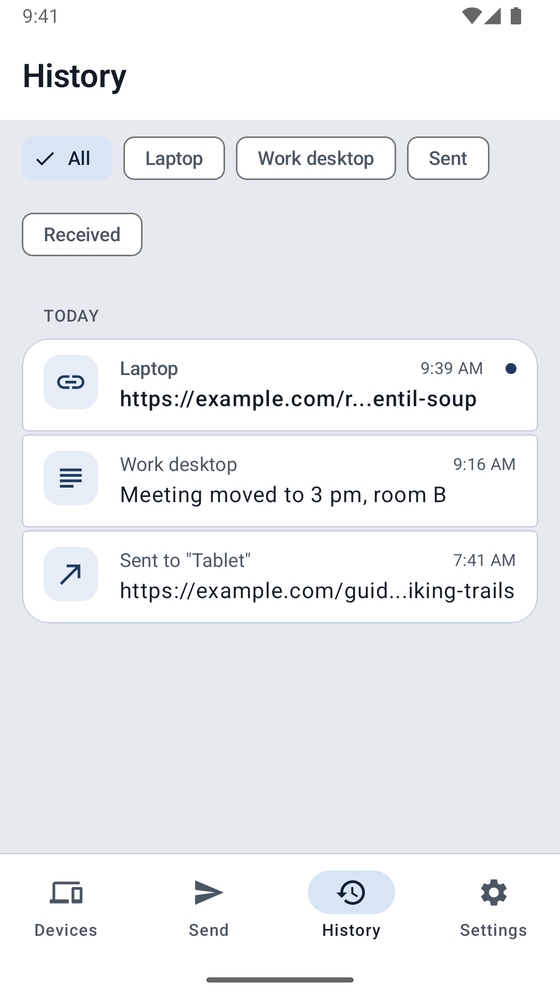
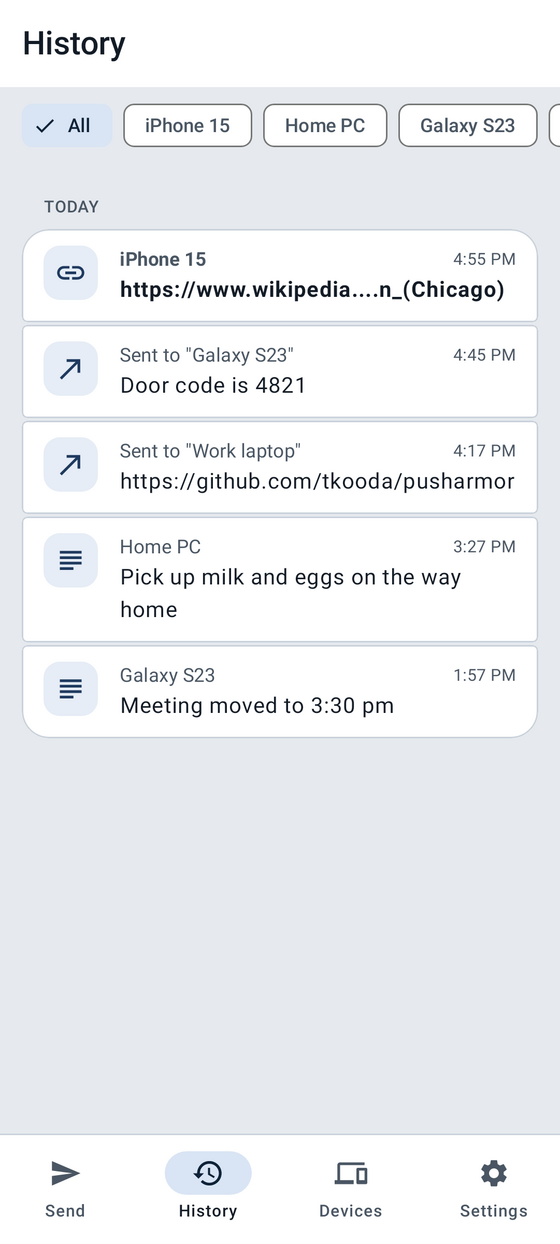
site: /about shows 7 journey screenshots per platform, light only, one screen each (I613)
Every /about image is replaced. Each platform shows: pair a device,
check the pairing fingerprint, the device list, send, history, an
opened message, and settings, with the same sample devices and
messages. Phone shots are one screen with the tab bar; browser shots
are the popup only.

Captured from:
  Android  57f60c2b386612d49f621698bff41bb12df24389
  iPhone   91cea859238439be40ee1ef2e094fa000f8d5b4f
  Chrome   5e95df12815e1adf7f38b211c568b2d53a60864b
  Firefox  5e95df12815e1adf7f38b211c568b2d53a60864b

diff --git a/site/public/about.html b/site/public/about.html
@@ -50,51 +50,52 @@ can open them. The security page shows who sees what.</p>
 <section class="shot-panel" id="shots-android" aria-labelledby="tab-android">
 <h3 class="panel-title">Android</h3>
 <div class="shot-row shot-android">
-<figure class="shot"><a class="shot-link" href="/img/about/android/06-first-pair-waiting.png"><img src="/img/about/android/06-first-pair-waiting.png" width="280" height="607" alt="Android Pair your first device screen with a device waiting to pair and Pair and Deny buttons."></a><figcaption>Waiting for a device to pair</figcaption></figure>
-<figure class="shot"><a class="shot-link" href="/img/about/android/04-pairing.png"><img src="/img/about/android/04-pairing.png" width="280" height="498" alt="Android pairing request showing the pairing fingerprint K7QD, with Deny and Approve buttons."></a><figcaption>Pair with a fingerprint</figcaption></figure>
-<figure class="shot"><a class="shot-link" href="/img/about/android/08-devices.png"><img src="/img/about/android/08-devices.png" width="280" height="498" alt="Android Devices screen listing the paired devices Laptop, Work desktop, and Tablet."></a><figcaption>Manage your devices</figcaption></figure>
-<figure class="shot"><a class="shot-link" href="/img/about/android/03-send.png"><img src="/img/about/android/03-send.png" width="280" height="498" alt="Android Send screen with a link typed in and three devices selected."></a><figcaption>Send to your devices</figcaption></figure>
-<figure class="shot"><a class="shot-link" href="/img/about/android/09-send-error.png"><img src="/img/about/android/09-send-error.png" width="280" height="498" alt="Android Send screen with a message that the send failed."></a><figcaption>Know when a send fails</figcaption></figure>
-<figure class="shot"><a class="shot-link" href="/img/about/android/05-history.png"><img src="/img/about/android/05-history.png" width="280" height="498" alt="Android History screen listing links and text from your other devices."></a><figcaption>See your history</figcaption></figure>
-<figure class="shot"><a class="shot-link" href="/img/about/android/10-history-open.png"><img src="/img/about/android/10-history-open.png" width="280" height="498" alt="Android History screen with one message opened, showing its actions."></a><figcaption>Open a message for more actions</figcaption></figure>
-<figure class="shot"><a class="shot-link" href="/img/about/android/07-settings.png"><img src="/img/about/android/07-settings.png" width="280" height="607" alt="Android Pair your first device screen with the Settings gear at the top right."></a><figcaption>Open Settings</figcaption></figure>
+<figure class="shot"><a class="shot-link" href="/img/about/android/01-pair-waiting.png"><img src="/img/about/android/01-pair-waiting.png" width="280" height="622" alt="Android Pair your first device screen with Galaxy S23 waiting to pair."></a><figcaption>Waiting for a device to pair</figcaption></figure>
+<figure class="shot"><a class="shot-link" href="/img/about/android/02-pair-fingerprint.png"><img src="/img/about/android/02-pair-fingerprint.png" width="280" height="622" alt="Android pairing request for Galaxy S23 showing the pairing fingerprint R4NX, with Deny and Approve buttons."></a><figcaption>Check the pairing fingerprint</figcaption></figure>
+<figure class="shot"><a class="shot-link" href="/img/about/android/03-devices.png"><img src="/img/about/android/03-devices.png" width="280" height="622" alt="Android Devices screen listing paired phones and computers, including the newly paired Galaxy S23."></a><figcaption>See your devices</figcaption></figure>
+<figure class="shot"><a class="shot-link" href="/img/about/android/04-send.png"><img src="/img/about/android/04-send.png" width="280" height="622" alt="Android Send screen with a link typed in and one device selected."></a><figcaption>Send to your devices</figcaption></figure>
+<figure class="shot"><a class="shot-link" href="/img/about/android/05-history.png"><img src="/img/about/android/05-history.png" width="280" height="622" alt="Android History screen listing links and text sent between your devices."></a><figcaption>See your history</figcaption></figure>
+<figure class="shot"><a class="shot-link" href="/img/about/android/06-history-open.png"><img src="/img/about/android/06-history-open.png" width="280" height="622" alt="Android History with one message opened, showing its actions."></a><figcaption>Open a message for more actions</figcaption></figure>
+<figure class="shot"><a class="shot-link" href="/img/about/android/07-settings.png"><img src="/img/about/android/07-settings.png" width="280" height="622" alt="Android Settings screen."></a><figcaption>Change your settings</figcaption></figure>
 </div>
 </section>
 
 <section class="shot-panel" id="shots-iphone" aria-labelledby="tab-iphone">
 <h3 class="panel-title">iPhone</h3>
 <div class="shot-row shot-iphone">
-<figure class="shot"><a class="shot-link" href="/img/about/iphone/06-first-pair-waiting.png"><img src="/img/about/iphone/06-first-pair-waiting.png" width="280" height="608" alt="iPhone Pair your first device screen with a device waiting to pair and Pair and Deny buttons."></a><figcaption>Waiting for a device to pair</figcaption></figure>
-<figure class="shot"><a class="shot-link" href="/img/about/iphone/04-pairing.png"><img src="/img/about/iphone/04-pairing.png" width="280" height="608" alt="iPhone pairing request showing the pairing fingerprint K7QD, with Deny and Approve buttons."></a><figcaption>Pair with a fingerprint</figcaption></figure>
-<figure class="shot"><a class="shot-link" href="/img/about/iphone/07-devices-list.png"><img src="/img/about/iphone/07-devices-list.png" width="280" height="608" alt="iPhone Devices screen listing several paired devices."></a><figcaption>Manage your devices</figcaption></figure>
-<figure class="shot"><a class="shot-link" href="/img/about/iphone/03-send.png"><img src="/img/about/iphone/03-send.png" width="280" height="608" alt="iPhone Send screen with a link typed in and Laptop selected."></a><figcaption>Send to your devices</figcaption></figure>
-<figure class="shot"><a class="shot-link" href="/img/about/iphone/08-send-error.png"><img src="/img/about/iphone/08-send-error.png" width="280" height="608" alt="iPhone Send screen with a message that the send failed and to try again."></a><figcaption>Know when a send fails</figcaption></figure>
-<figure class="shot"><a class="shot-link" href="/img/about/iphone/09-history-open.png"><img src="/img/about/iphone/09-history-open.png" width="280" height="608" alt="iPhone message sheet over the History list with Open, Copy, and Share buttons."></a><figcaption>Open a message for more actions</figcaption></figure>
-<figure class="shot"><a class="shot-link" href="/img/about/iphone/05-settings.png"><img src="/img/about/iphone/05-settings.png" width="280" height="608" alt="iPhone Pair your first device screen with the Settings gear at the top right."></a><figcaption>Open Settings</figcaption></figure>
+<figure class="shot"><a class="shot-link" href="/img/about/iphone/01-pair-waiting.png"><img src="/img/about/iphone/01-pair-waiting.png" width="280" height="608" alt="iPhone Pair your first device screen with Galaxy S23 waiting to pair."></a><figcaption>Waiting for a device to pair</figcaption></figure>
+<figure class="shot"><a class="shot-link" href="/img/about/iphone/02-pair-fingerprint.png"><img src="/img/about/iphone/02-pair-fingerprint.png" width="280" height="608" alt="iPhone pairing request for Galaxy S23 showing the pairing fingerprint R4NX, with Deny and Approve buttons."></a><figcaption>Check the pairing fingerprint</figcaption></figure>
+<figure class="shot"><a class="shot-link" href="/img/about/iphone/03-devices.png"><img src="/img/about/iphone/03-devices.png" width="280" height="608" alt="iPhone Devices screen listing paired phones and computers, including the newly paired Galaxy S23."></a><figcaption>See your devices</figcaption></figure>
+<figure class="shot"><a class="shot-link" href="/img/about/iphone/04-send.png"><img src="/img/about/iphone/04-send.png" width="280" height="608" alt="iPhone Send screen with a link typed in and one device selected."></a><figcaption>Send to your devices</figcaption></figure>
+<figure class="shot"><a class="shot-link" href="/img/about/iphone/05-history.png"><img src="/img/about/iphone/05-history.png" width="280" height="608" alt="iPhone History screen listing links and text sent between your devices."></a><figcaption>See your history</figcaption></figure>
+<figure class="shot"><a class="shot-link" href="/img/about/iphone/06-history-open.png"><img src="/img/about/iphone/06-history-open.png" width="280" height="608" alt="iPhone History with one message opened, showing its actions."></a><figcaption>Open a message for more actions</figcaption></figure>
+<figure class="shot"><a class="shot-link" href="/img/about/iphone/07-settings.png"><img src="/img/about/iphone/07-settings.png" width="280" height="608" alt="iPhone Settings screen."></a><figcaption>Change your settings</figcaption></figure>
 </div>
 </section>
 
 <section class="shot-panel" id="shots-chrome" aria-labelledby="tab-chrome">
 <h3 class="panel-title">Chrome</h3>
 <div class="shot-row shot-popup">
-<figure class="shot"><a class="shot-link" href="/img/about/chrome/04-first-pair-waiting.png"><img src="/img/about/chrome/04-first-pair-waiting.png" width="400" height="560" alt="PushArmor in Chrome: Pair your first device, with a device waiting to pair and Pair and Deny buttons."></a><figcaption>Waiting for a device to pair</figcaption></figure>
-<figure class="shot"><a class="shot-link" href="/img/about/chrome/05-pairing-code.png"><img src="/img/about/chrome/05-pairing-code.png" width="400" height="560" alt="PushArmor in Chrome: a pairing request showing the pairing fingerprint K7QD, with Deny and Approve buttons."></a><figcaption>Check the pairing fingerprint</figcaption></figure>
-<figure class="shot"><a class="shot-link" href="/img/about/chrome/07-devices.png"><img src="/img/about/chrome/07-devices.png" width="400" height="560" alt="PushArmor in Chrome: the Devices tab listing several paired devices."></a><figcaption>Manage your devices</figcaption></figure>
-<figure class="shot"><a class="shot-link" href="/img/about/chrome/08-send-error.png"><img src="/img/about/chrome/08-send-error.png" width="400" height="560" alt="PushArmor in Chrome: the Send tab with a message that the relay server could not be reached."></a><figcaption>Know when a send fails</figcaption></figure>
-<figure class="shot"><a class="shot-link" href="/img/about/chrome/09-history-open.png"><img src="/img/about/chrome/09-history-open.png" width="400" height="560" alt="PushArmor in Chrome: the History tab with one message opened, showing Open, Copy, and Send to buttons."></a><figcaption>Open a message for more actions</figcaption></figure>
-<figure class="shot"><a class="shot-link" href="/img/about/chrome/06-settings.png"><img src="/img/about/chrome/06-settings.png" width="400" height="560" alt="PushArmor in Chrome: Settings with this device, theme, sending, receiving, and history options."></a><figcaption>Change your settings</figcaption></figure>
+<figure class="shot"><a class="shot-link" href="/img/about/chrome/01-pair-waiting.png"><img src="/img/about/chrome/01-pair-waiting.png" width="400" height="560" alt="PushArmor in Chrome: pair your first device screen with Galaxy S23 waiting to pair."></a><figcaption>Waiting for a device to pair</figcaption></figure>
+<figure class="shot"><a class="shot-link" href="/img/about/chrome/02-pair-fingerprint.png"><img src="/img/about/chrome/02-pair-fingerprint.png" width="400" height="560" alt="PushArmor in Chrome: pairing request for Galaxy S23 showing the pairing fingerprint R4NX, with Deny and Approve buttons."></a><figcaption>Check the pairing fingerprint</figcaption></figure>
+<figure class="shot"><a class="shot-link" href="/img/about/chrome/03-devices.png"><img src="/img/about/chrome/03-devices.png" width="400" height="560" alt="PushArmor in Chrome: devices screen listing paired phones and computers, including the newly paired Galaxy S23."></a><figcaption>See your devices</figcaption></figure>
+<figure class="shot"><a class="shot-link" href="/img/about/chrome/04-send.png"><img src="/img/about/chrome/04-send.png" width="400" height="560" alt="PushArmor in Chrome: send screen with a link typed in and one device selected."></a><figcaption>Send to your devices</figcaption></figure>
+<figure class="shot"><a class="shot-link" href="/img/about/chrome/05-history.png"><img src="/img/about/chrome/05-history.png" width="400" height="560" alt="PushArmor in Chrome: history screen listing links and text sent between your devices."></a><figcaption>See your history</figcaption></figure>
+<figure class="shot"><a class="shot-link" href="/img/about/chrome/06-history-open.png"><img src="/img/about/chrome/06-history-open.png" width="400" height="560" alt="PushArmor in Chrome: history with one message opened, showing its actions."></a><figcaption>Open a message for more actions</figcaption></figure>
+<figure class="shot"><a class="shot-link" href="/img/about/chrome/07-settings.png"><img src="/img/about/chrome/07-settings.png" width="400" height="560" alt="PushArmor in Chrome: settings screen."></a><figcaption>Change your settings</figcaption></figure>
 </div>
 </section>
 
 <section class="shot-panel" id="shots-firefox" aria-labelledby="tab-firefox">
 <h3 class="panel-title">Firefox</h3>
 <div class="shot-row shot-popup">
-<figure class="shot"><a class="shot-link" href="/img/about/firefox/04-first-pair-waiting.png"><img src="/img/about/firefox/04-first-pair-waiting.png" width="400" height="560" alt="PushArmor in Firefox: Pair your first device, with a device waiting to pair and Pair and Deny buttons."></a><figcaption>Waiting for a device to pair</figcaption></figure>
-<figure class="shot"><a class="shot-link" href="/img/about/firefox/05-pairing-code.png"><img src="/img/about/firefox/05-pairing-code.png" width="400" height="560" alt="PushArmor in Firefox: a pairing request showing the pairing fingerprint K7QD, with Deny and Approve buttons."></a><figcaption>Check the pairing fingerprint</figcaption></figure>
-<figure class="shot"><a class="shot-link" href="/img/about/firefox/07-devices.png"><img src="/img/about/firefox/07-devices.png" width="400" height="560" alt="PushArmor in Firefox: the Devices tab listing several paired devices."></a><figcaption>Manage your devices</figcaption></figure>
-<figure class="shot"><a class="shot-link" href="/img/about/firefox/08-send-error.png"><img src="/img/about/firefox/08-send-error.png" width="400" height="560" alt="PushArmor in Firefox: the Send tab with a message that the relay server could not be reached."></a><figcaption>Know when a send fails</figcaption></figure>
-<figure class="shot"><a class="shot-link" href="/img/about/firefox/09-history-open.png"><img src="/img/about/firefox/09-history-open.png" width="400" height="560" alt="PushArmor in Firefox: the History tab with one message opened, showing Open, Copy, and Send to buttons."></a><figcaption>Open a message for more actions</figcaption></figure>
-<figure class="shot"><a class="shot-link" href="/img/about/firefox/06-settings.png"><img src="/img/about/firefox/06-settings.png" width="400" height="560" alt="PushArmor in Firefox: Settings with this device, theme, sending, receiving, and history options."></a><figcaption>Change your settings</figcaption></figure>
+<figure class="shot"><a class="shot-link" href="/img/about/firefox/01-pair-waiting.png"><img src="/img/about/firefox/01-pair-waiting.png" width="400" height="560" alt="PushArmor in Firefox: pair your first device screen with Galaxy S23 waiting to pair."></a><figcaption>Waiting for a device to pair</figcaption></figure>
+<figure class="shot"><a class="shot-link" href="/img/about/firefox/02-pair-fingerprint.png"><img src="/img/about/firefox/02-pair-fingerprint.png" width="400" height="560" alt="PushArmor in Firefox: pairing request for Galaxy S23 showing the pairing fingerprint R4NX, with Deny and Approve buttons."></a><figcaption>Check the pairing fingerprint</figcaption></figure>
+<figure class="shot"><a class="shot-link" href="/img/about/firefox/03-devices.png"><img src="/img/about/firefox/03-devices.png" width="400" height="560" alt="PushArmor in Firefox: devices screen listing paired phones and computers, including the newly paired Galaxy S23."></a><figcaption>See your devices</figcaption></figure>
+<figure class="shot"><a class="shot-link" href="/img/about/firefox/04-send.png"><img src="/img/about/firefox/04-send.png" width="400" height="560" alt="PushArmor in Firefox: send screen with a link typed in and one device selected."></a><figcaption>Send to your devices</figcaption></figure>
+<figure class="shot"><a class="shot-link" href="/img/about/firefox/05-history.png"><img src="/img/about/firefox/05-history.png" width="400" height="560" alt="PushArmor in Firefox: history screen listing links and text sent between your devices."></a><figcaption>See your history</figcaption></figure>
+<figure class="shot"><a class="shot-link" href="/img/about/firefox/06-history-open.png"><img src="/img/about/firefox/06-history-open.png" width="400" height="560" alt="PushArmor in Firefox: history with one message opened, showing its actions."></a><figcaption>Open a message for more actions</figcaption></figure>
+<figure class="shot"><a class="shot-link" href="/img/about/firefox/07-settings.png"><img src="/img/about/firefox/07-settings.png" width="400" height="560" alt="PushArmor in Firefox: settings screen."></a><figcaption>Change your settings</figcaption></figure>
 </div>
 </section>
 </div>
